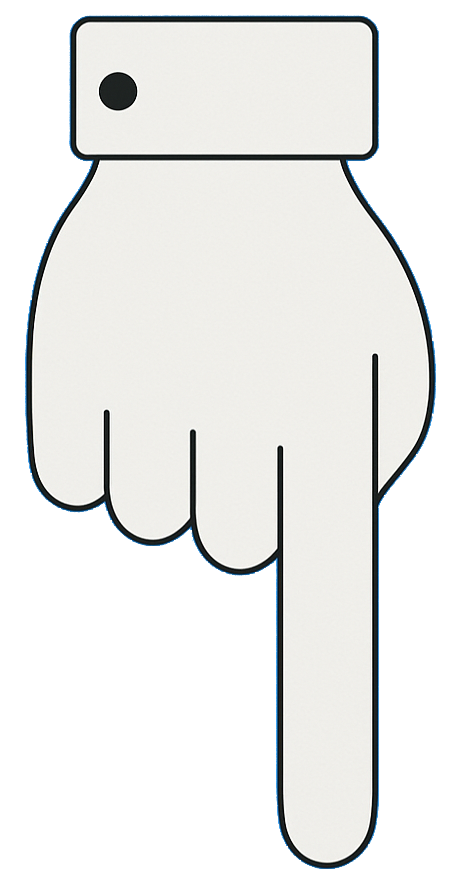
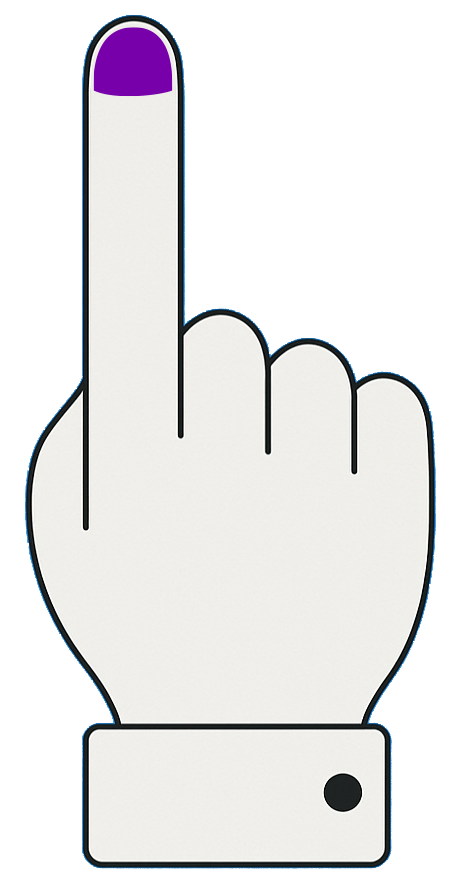
update finger

diff --git a/src/lib/ui/MediaInspector/MediaInspector.svelte b/src/lib/ui/MediaInspector/MediaInspector.svelte
@@ -18,7 +18,7 @@
 	<Container label="inspector" disabled>
 		<div class="flex h-full w-full items-center justify-center">
 			<div class="flex w-[10rem] flex-col items-center gap-2">
-				<enhanced:img src={Hand} class="w-[5rem] rotate-180" alt="hand" />
+				<enhanced:img src={Hand} class="w-[5rem]" alt="hand" />
 				<p class="text-center">select a media item from the gallery to inspect</p>
 			</div>
 		</div>
